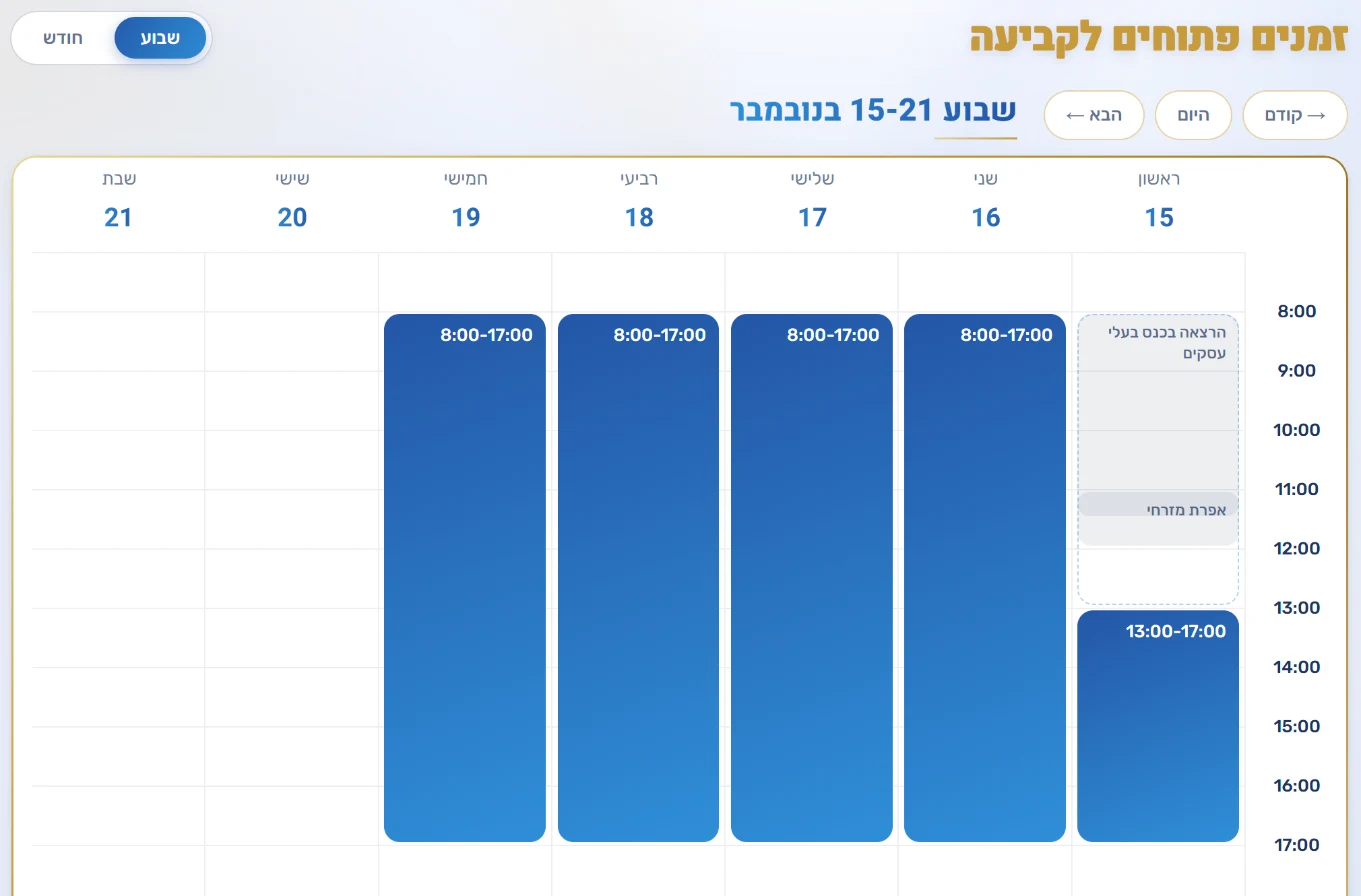
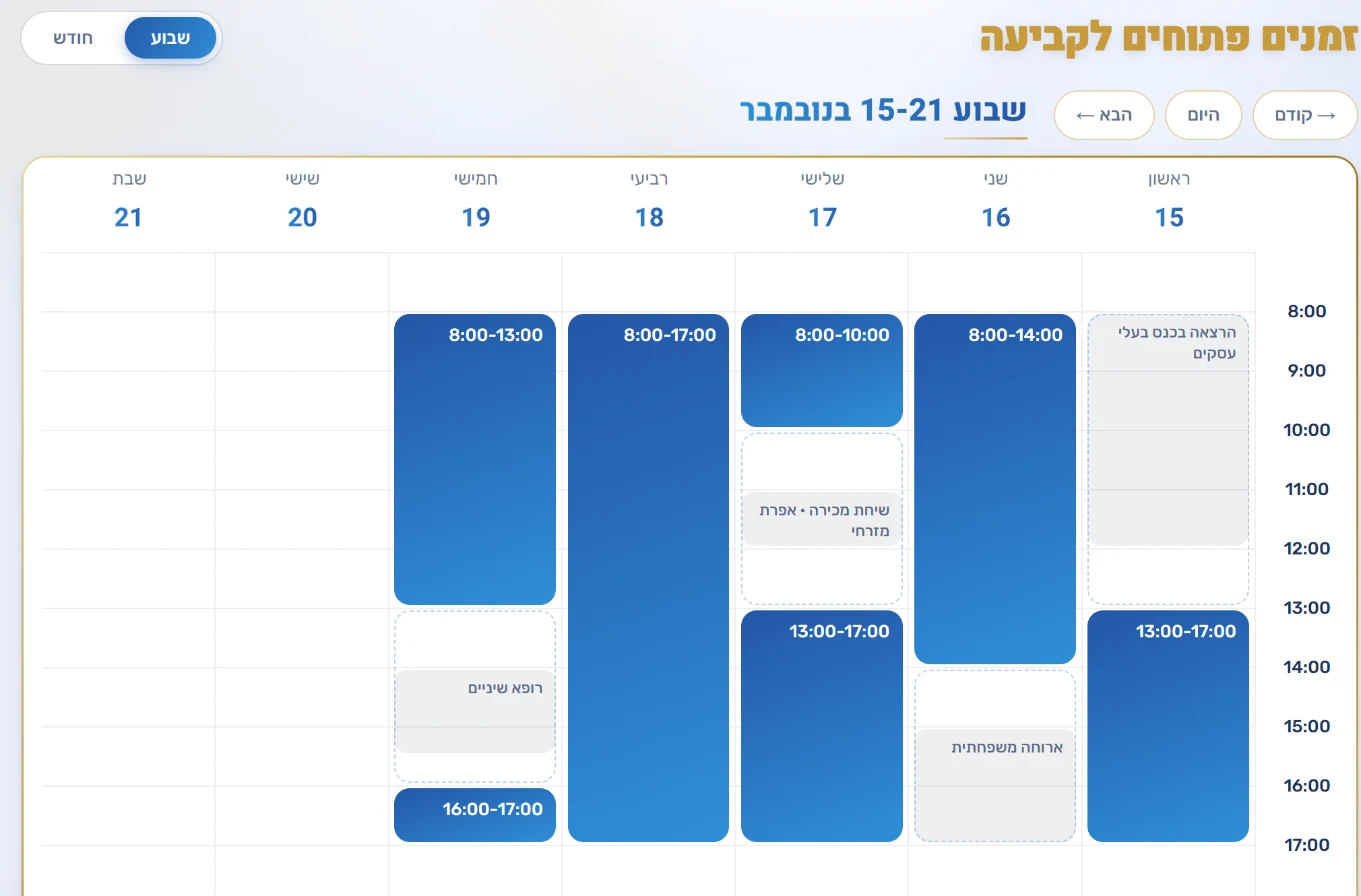
feat(crm): צילום זמנים פתוחים בלי חפיפה, ונוסח האפור החדש

diff --git a/crm/index.html b/crm/index.html
@@ -211,12 +211,12 @@
         <figure class="shot"><img src="/assets/img/crm/calendar.webp" width="1456" height="816" loading="lazy" alt="היומן החודשי עם הפגישות של הצוות" /></figure>
         <div>
           <h4 class="feat-sub"><span aria-hidden="true">🛠</span> יומן מאחורי הקלעים בתוך ה-CRM</h4>
-          <p>היומן הזה מראה את הזמנים שפתוחים לקביעת פגישות ושיחות חדשות בעסק.<br><b>באפור רואים זמנים סגורים שנרשמו לבד מהיומנים האישיים האחרים</b>, כמו טיול, ארוחה משפחתית, רופא שיניים וכדומה - וזה סוגר באופן מיידי את האפשרות לקבוע פגישות ושיחות בשעות האלה.</p>
+          <p>היומן הזה מראה את הזמנים שפתוחים לקביעת פגישות ושיחות חדשות בעסק.<br><b>באפור רואים זמנים סגורים שנרשמו לבד מהיומנים האישיים האחרים</b>, כמו: טיול, ארוחה משפחתית, רופא שיניים וכדומה,<br>וגם הוא שואב מיומן העסק את הפגישות שכבר נקבעו עם לקוחות ולידים (או שהם שריינו אותם בעצמם),<br><b>וביחד - היומן החכם הזה סוגר באופן מיידי את האפשרות לקבוע פגישות ושיחות בשעות האלו.</b></p>
         </div>
-        <figure class="shot"><img src="/assets/img/crm/availability.webp" width="1361" height="896" loading="lazy" alt="הזמנים הפתוחים לקביעה בשבוע, כשזמן תפוס נחסם לבד" /></figure>
+        <figure class="shot"><img src="/assets/img/crm/availability.webp?v=2" width="1361" height="896" loading="lazy" alt="הזמנים הפתוחים לקביעה בשבוע, כשזמן תפוס נחסם לבד" /></figure>
         <div>
           <h4 class="feat-sub"><span aria-hidden="true">⚙</span> ההגדרות של היומן שמאחורי הקלעים ב-CRM</h4>
-          <p>פה מגדירים פעם אחת שעות קבועות, למשל שמיום ראשון עד חמישי עובדים מ-8 עד 5, כדי לא לעשות את זה כל פעם ביד. וגם את אורך השיחה, המרווח לפני ואחרי, והשם שהלקוח רואה.</p>
+          <p>פה מגדירים פעם אחת שעות קבועות, למשל שמיום ראשון עד חמישי עובדים מ-8 עד 16, כדי לא לעשות את זה כל פעם ביד.<br>וגם את אורך השיחה, המרווח לפני ואחרי, והשם שהלקוח רואה.</p>
           <p><b>ומעבר לזה, היומן החכם סוגר לבד את השעות שיש בהן משהו ביומנים האחרים</b>, כמו תור לרופא. <b>אז לא צריך לעשות כלום ביד, הוא עושה את זה לבד.</b></p>
         </div>
         <figure class="shot"><img src="/assets/img/crm/availability-settings.webp" width="1280" height="712" loading="lazy" alt="הגדרות היומן: שעות קבועות לכל יום, אורך שיחה ומרווחים" /></figure>
